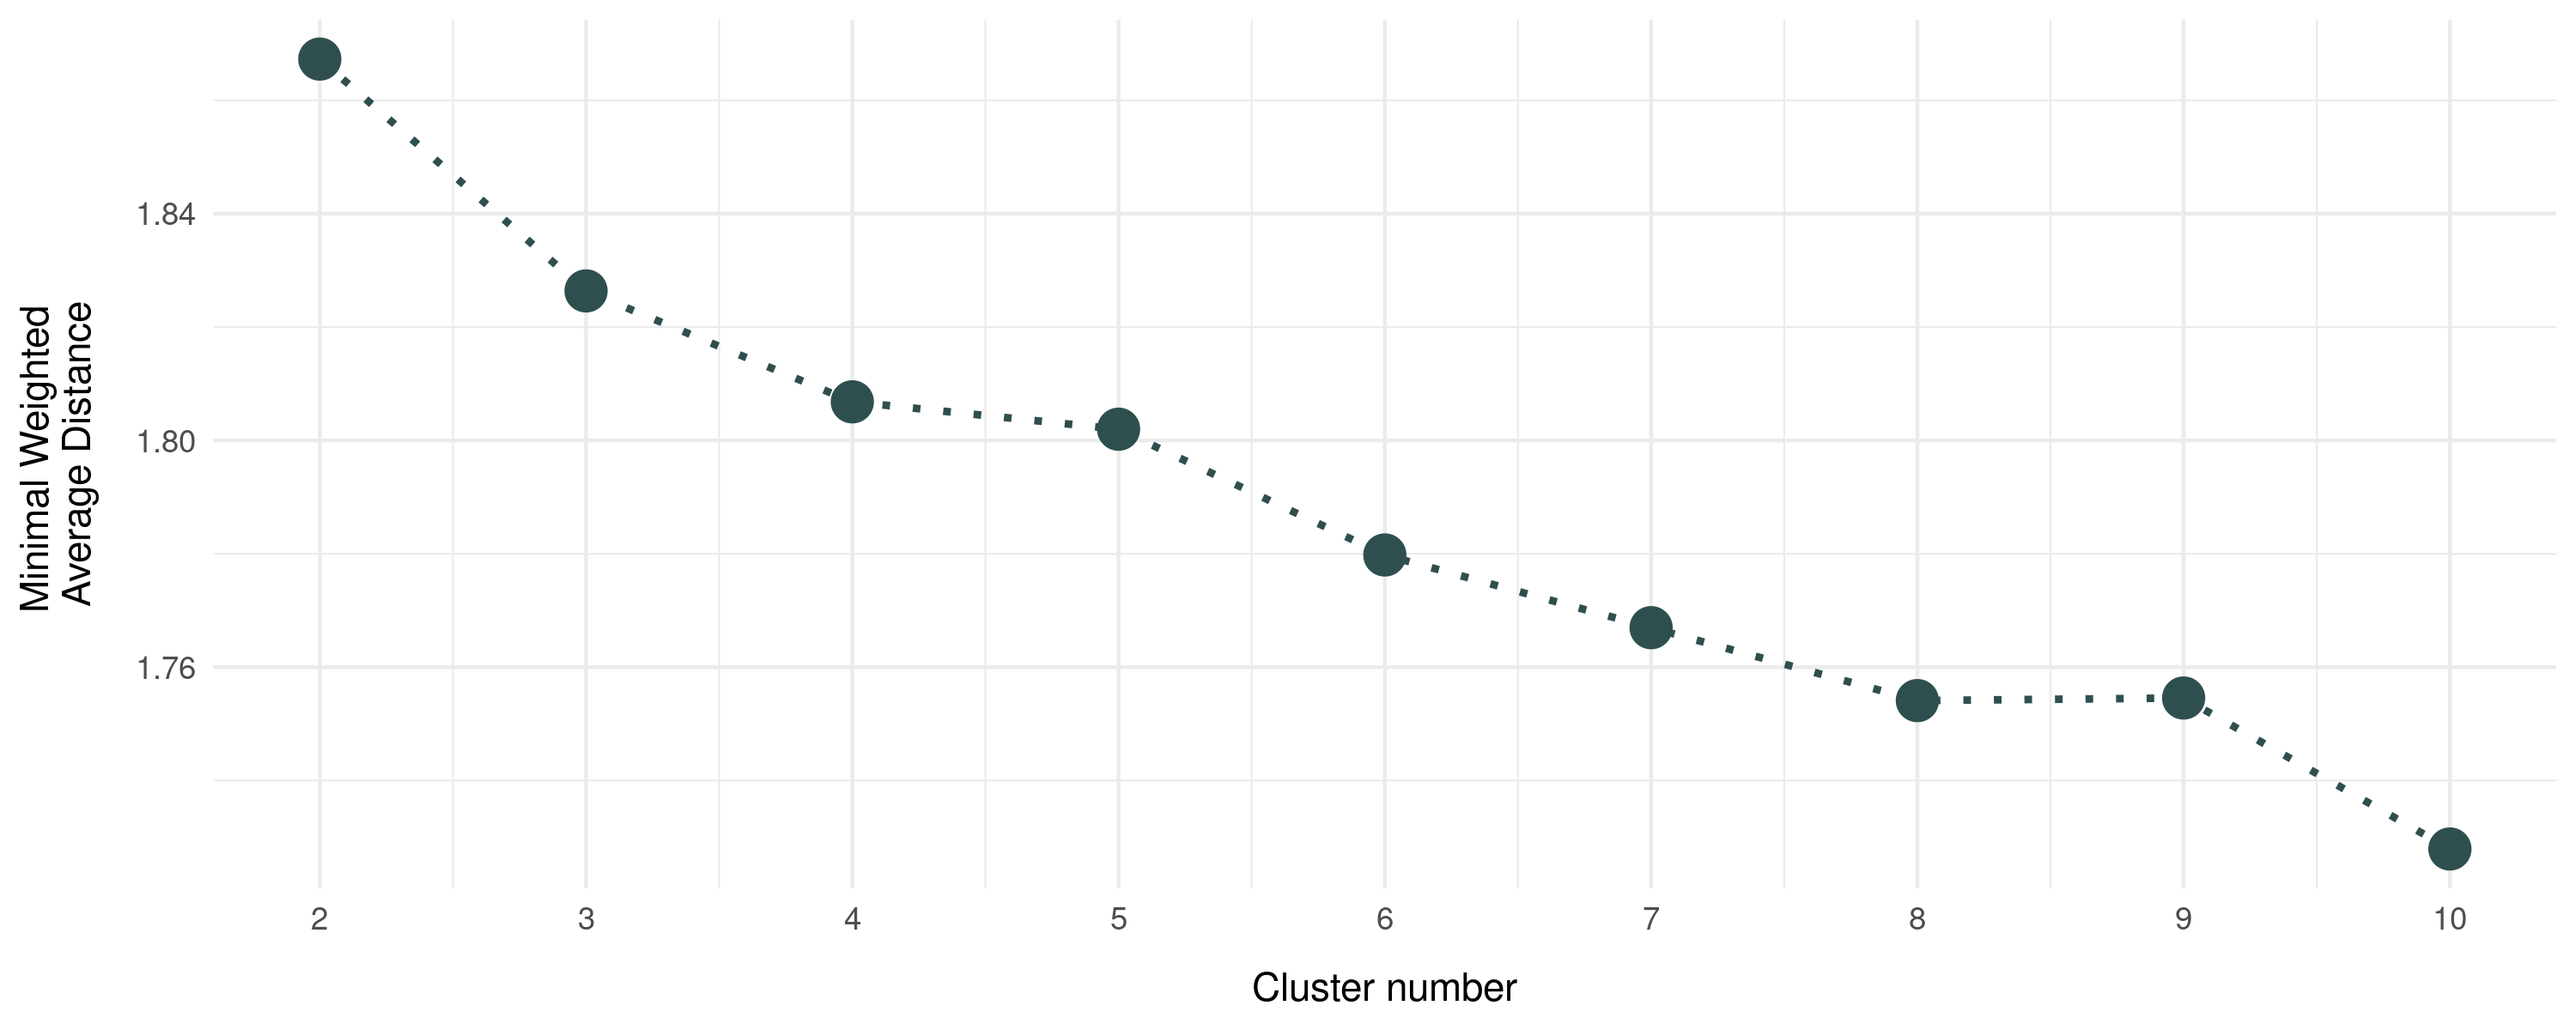
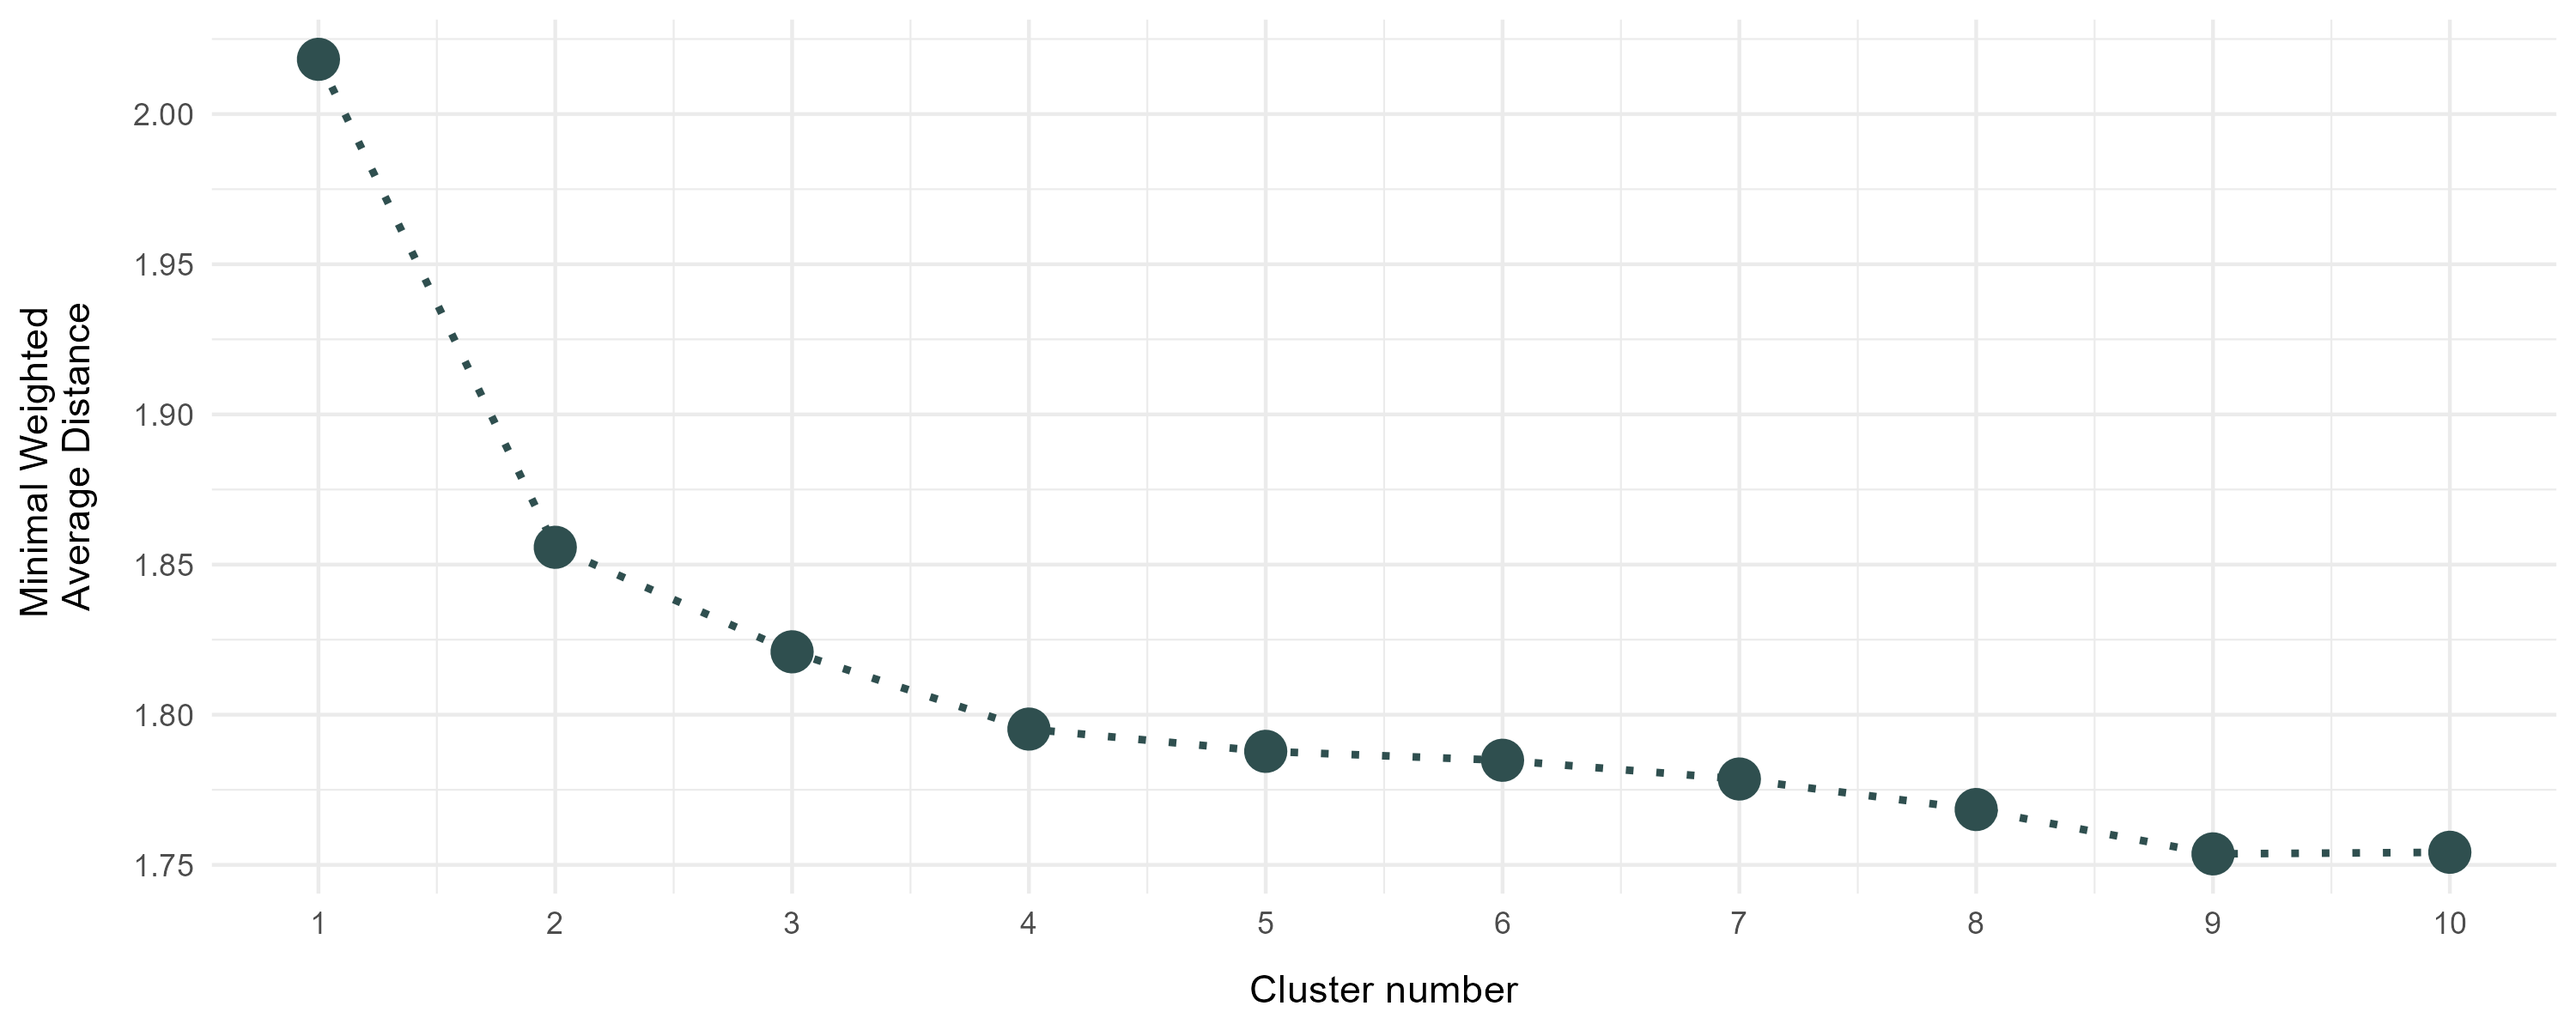
general routines and applications sections in paper

diff --git a/paper/paper.md b/paper/paper.md
@@ -92,7 +92,7 @@ techniques.
 To combine the CLARA strategy with the principle of fuzzy clustering,
 we build on the original CLARA clustering algorithm by (REFERENCE). The
 algorithm consists of the following steps given a predefined number of $J$
-clusters.
+clusters:
 
 1. Determination of $k$ random subsamples of the data \
 2. For each subsample $k = 1,..., K$: \
@@ -135,32 +135,60 @@ The implementation of its fuzzy version basically follows
 the same idea as the fuzzy CLARA algorithm with the computation of membership
 scores according to (2) and the selection of the best clustering solution over
 all local clusterings based on the minimal weighted average distance.
+TODO: noch einzubauen: Funktion fuzzyclara, Verwendung von vegclust für clara
 
 # General Routine of Cluster Analysis
 
-Wir haben auch hard clustering, verschiedene Visualisierungen, Clusteranzahl, alle Distanzfunktionen
+Apart from the combination of fuzzy clustering and subsampling approaches,
+`fuzzyclara` aims to provide a flexible toolbox for medoid-based clustering in
+general which covers the whole clustering workflow. This also includes the
+option to perform hard clustering using the classical pam algorithm. All
+implemented algorithm may be used with any kind of dissimilarity metric. The
+user may rely on a set of pre-defined common metrics
+(which are used by `proxy::dist`) or use a self-defined metric. 
 
+The package contains a wide set of routines for post-analysis of the clustering
+solutions including descriptive visualizations, principal components plots or
+the analysis of silhouettes. The focus of the graphical visualization tools
+is also on the representation of the fuzzyness of the resulting
+clusters. Individual membership scores are integrated into `clara_pca`,
+`clara_parcoord` and `clara_scatterplot`. For other plot functions such 
+as `clara_boxplot` and `clara_barplot`, an optional threshold can be set to
+only visualize the core observations of the clusters with high memberships
+scores. The optimal number of clusters may be determined by the function
+`evaluate_cluster_numbers` which repeatedly performs the clustering with
+different clusters based on the same random samples.
 
 # Application
 We demonstrate the functionality of the `fuzzyclara` package by clustering
 German tourists based on the included `travel` data. The data originates from an
-annual cross-sectional study on pleasure travel and contains information on ...
-travelers between 2009 to 2018. Apart from thetravel year, included variables
+annual cross-sectional study on pleasure travel and contains information on
+11871 travelers between 2009 to 2018. Apart from the travel year, included variables
 are the number of trips made within a year, the overall amount of travel
 expenses and the maximum travel distance.
 
-As tourists are considered, We apply the fuzzyclara algorithm with 20 randomly
-drawn samples of size 1000 to identify five clusters. 
+Due to the rather large data size, we apply the clara algorithm with 20
+randomly drawn samples of size 1000. As tourists are likely to share
+characteristics of several tourist types, we use the fuzzy version with a
+membership exponent of $m = 1.5$. Based on the minimum average weighted
+dissimilarity, the elbow criterion (see \autoref{fig:modelEffects})
+shows recommends us to choose the solution with four different clusters.
 
-![Figure caption \label{fig:description}](figures/travel_clustered.png)
+![Elbow plot of best clustering solutions with 1 to 10 clusters according to the minial average weighted distance.\label{fig:description}](figures/travel_ellbow.png)
 
-Figure 2 highlights 
-![Figure caption \label{fig:pca}](figures/travel_clustered.png)
+\autoref{fig:parcoord} highlights the chracteristics of the different clusters
+showing the individual paths of 500 randomly sampled observations including the
+medoid. Whereas cluster 1 shows a tendency to trips of shorter length, lower
+distance and lower costs, the tourists of cluster 2 tend to travel most
+frequently and spend the most money for travelling. Between the clusters 3 and
+4, there are only minor differences regarding travel distances and expenses.
 
-
+![Parallel coordinate plot showing individual paths of 500 randomly sampled observations over the standardized variables. The path of medoids are highlighted with the black line. The transparency of the line represents the membership score of the observation to the assigned cluster where a thicker line stands for a lower degree of fuzzyness. \label{fig:parcoord}](figures/travel_clustered.png)
 
 # Acknowledgments
 
-This work has been partially funded by the German Research Foundation (DFG) under Grant No. KU 1359/4-1 and by the German Federal Ministry of Education and Research (BMBF) under Grant No. 01IS18036A.
+This work has been partially funded by the German Research Foundation (DFG)
+under Grant No. KU 1359/4-1 and by the German Federal Ministry of Education and
+Research (BMBF) under Grant No. 01IS18036A.
 
 # References
